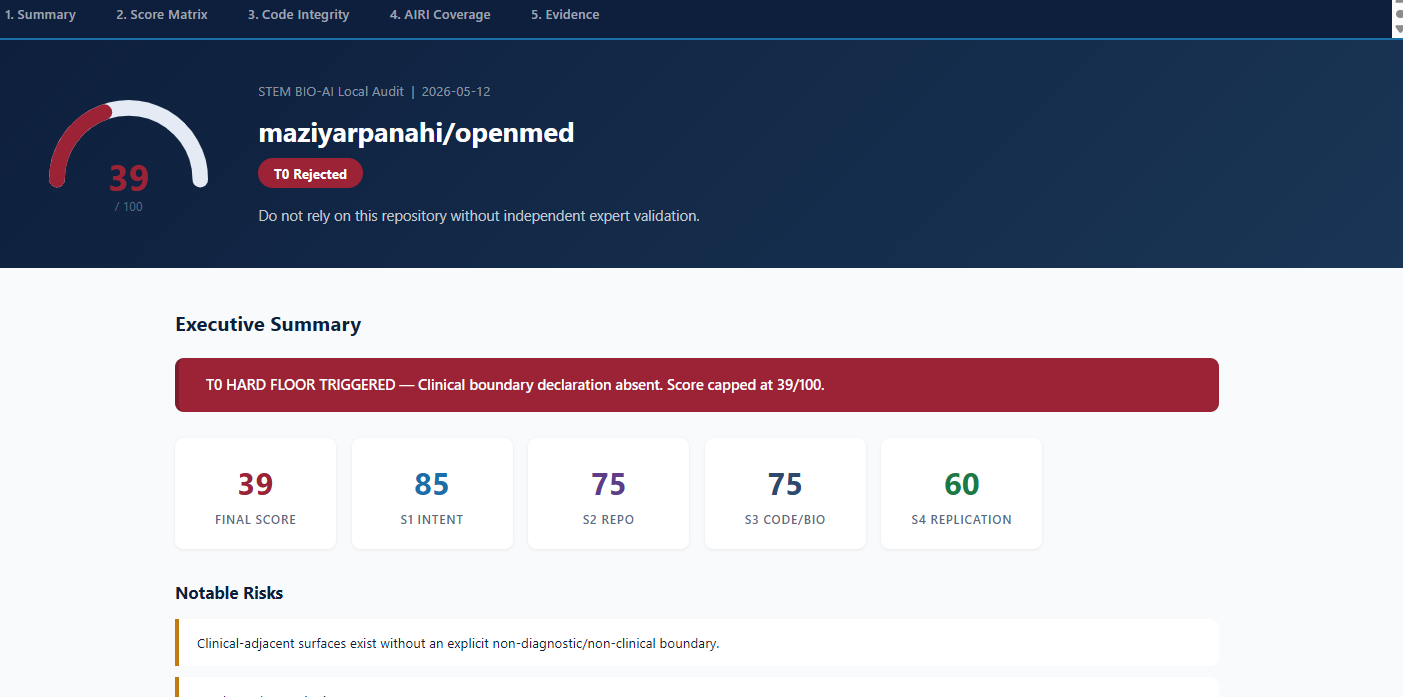
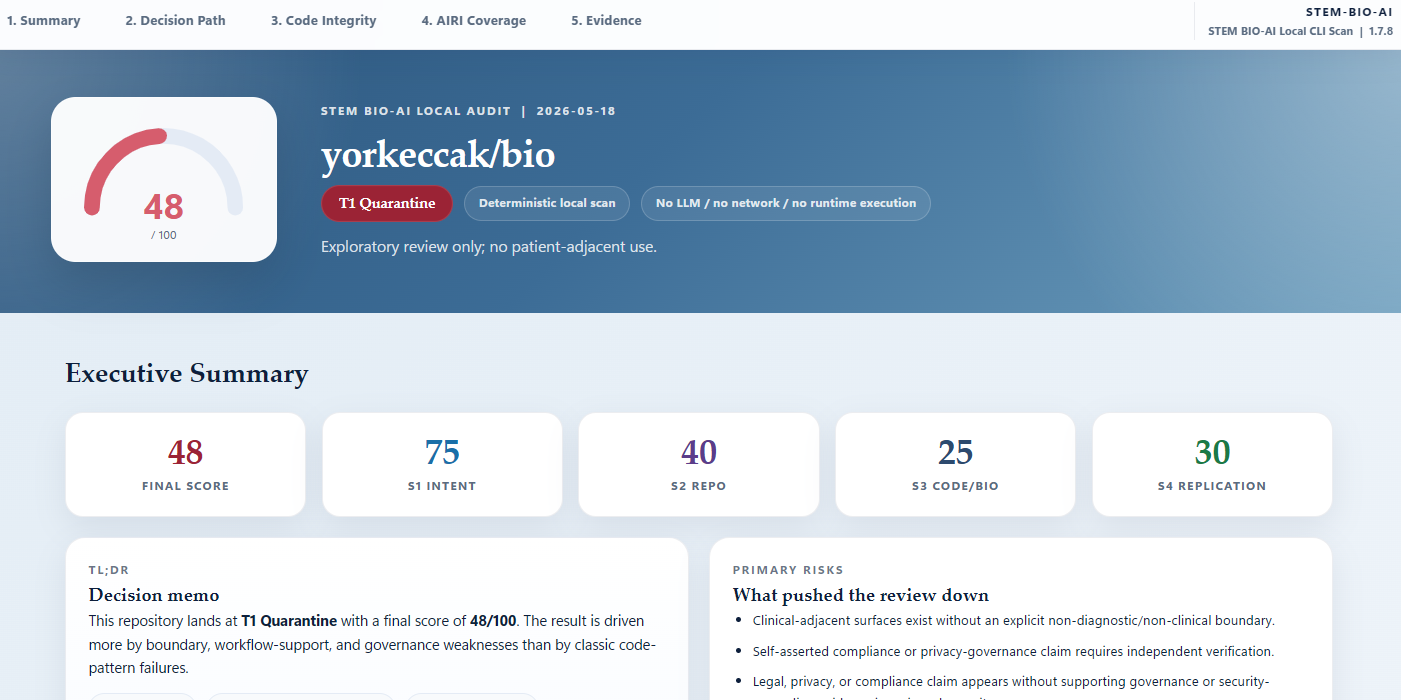
docs: refresh active html and report preview surfaces

diff --git a/docs/UI_HTML_REPORT.md b/docs/UI_HTML_REPORT.md
@@ -27,9 +27,9 @@ Example:
 | Section | ID | Content |
 |---------|-----|---------|
 | **Executive Summary** | `#s1` | Score gauge, 5-metric stat grid, notable risks, T0 alert banner |
-| **Score Matrix** | `#s2` | Stage bars (S1/S2R/S3/S4) with formula tooltip |
+| **Decision Path** | `#s2` | Stage bars (S1/S2R/S3/S4), score formula, and policy/configuration explainer |
 | **Code Integrity & Contract** | `#s3` | C1–C6 + CC1–CC3 expandable cards, with C4/C5/C6 split visible |
-| **AIRI Risk Coverage** | `#s4` | MIT AI Risk Repository donut + covered/gaps toggle table |
+| **AIRI Risk Coverage** | `#s4` | MIT AI Risk Repository donut + covered/gaps toggle table + domain filter cards |
 | **Evidence Detail** | `#s5` | Full evidence ledger with severity filter chips |
 
 Navigation between sections via a **sticky top navbar** with scroll-spy active state.
@@ -55,10 +55,11 @@ Each `C1–C6` / `CC1–CC3` card is clickable. Click expands the full evidence 
 ```
 
 ### AIRI 7-Domain Shortcut Cards (Section 4)
-Seven domain cards above the risk table, each with a numbered badge, domain name, and covered-risk count. Colors match the MIT AI Risk Navigator palette:
+The AIRI explorer starts with an `All Domains` card, followed by seven domain cards. Each card shows **covered / gaps** counts for that domain. Colors match the MIT AI Risk Navigator palette:
 
 | # | Domain | Badge color |
 |---|--------|------------|
+| All | All Domains | primary navy |
 | 1 | Discrimination & Toxicity | `#B5272A` crimson |
 | 2 | Privacy & Security | `#1E3A6E` deep navy |
 | 3 | Misinformation | `#C07020` amber |
@@ -67,10 +68,10 @@ Seven domain cards above the risk table, each with a numbered badge, domain name
 | 6 | Socioeconomic & Environmental | `#7A6520` olive |
 | 7 | AI System Safety, Failures & Limitations | `#1A5568` dark teal |
 
-Click a domain card → risk table filters to that domain only. Click the same card again → filter cleared. Domains with zero covered risks are dimmed (`opacity:0.3`, non-clickable). Domain filter composes with the Covered/Gaps toggle via `_applyAiriFilter()`.
+Click a domain card → risk table filters to that domain only and the `Covered (n)` / `Gaps (n)` toggle labels update to that domain's counts. Click `All Domains` → full table restored. Cards with `0/0` are dimmed but still document bundle coverage boundaries.
 
 ### AIRI Toggle (Section 4)
-Two-button toggle: `[Covered (n)]` / `[Gaps (n)]`. Composes with the domain filter — both conditions must be satisfied for a row to be visible.
+Two-button toggle: `[Covered (n)]` / `[Gaps (n)]`. Composes with the domain filter — both conditions must be satisfied for a row to be visible. The counts shown on the toggle buttons are dynamic and reflect the current domain selection.
 
 Covered AIRI rows surface bounded `why` reasoning derived from:
 
@@ -99,7 +100,7 @@ Every metric header carries a `?` icon with a `data-tooltip` attribute. CSS `::a
 
 ## Architecture
 
-The HTML renderer is split into three modules (each < 250 lines):
+The HTML renderer is split into three modules:
 
 | File | Role |
 |------|------|
@@ -107,13 +108,19 @@ The HTML renderer is split into three modules (each < 250 lines):
 | `stem_ai/render_html_styles.py` | `build_css(tc)` f-string (tier-color parameterized), `.domain-card/.domain-active` CSS, `JS` constant with `filterDomain()` + `_applyAiriFilter()` |
 | `stem_ai/render_html.py` | Five `_section*()` assemblers + domain-count computation + `render_html(result)` entry point |
 
-The matching one-page PDF surface now includes an additive `AIRI Coverage Summary` block so AIRI coverage, known gaps, and bounded `why:` explanations are not limited to HTML/Markdown only.
+The matching PDF surfaces now track the packet tiers:
+
+- `level 1` → `brief_1p.pdf` (legacy quick brief)
+- `level 2` → `detailed_5p.pdf` (standard review packet)
+- `level 3` → `detailed_7p.pdf` (full evidence packet)
+
+The 5-page and 7-page packets both include AIRI coverage and bounded `why:` explanations, while the 7-page packet adds the deeper closeout and metadata pages.
 
 ## Report Preview
 
 ![HTML Report Preview](assets/html_report_preview.png)
 
-*Screenshot: openmed scan, T1 tier (39/100), T0 hard floor triggered.*
+*Screenshot: current 1.7.8 HTML dashboard surface with the post-C4/C5/C6 integrity split and AIRI domain filtering.*
 
 ## Color Palette
 

diff --git a/docs/CLI_REFERENCE.md b/docs/CLI_REFERENCE.md
@@ -90,8 +90,7 @@ The shorthand remains:
 stem /path/to/repo
 ```
 
-Policy selection is mirror-only in 1.7.8: the chosen profile is surfaced in outputs and summaries, and derive/simulate preview lanes can compare postures, but authoritative score computation still follows the current deterministic runtime constants.
-Policy selection remains mirror-only in scans in 1.7.8. The new `policy derive` and `policy simulate` commands preview governed posture changes without turning those deltas into authoritative scan behavior.
+Policy selection remains mirror-only in scans in `1.7.8`: the chosen profile is surfaced in outputs and summaries, and `policy derive` / `policy simulate` preview governed posture changes without turning those deltas into authoritative scan behavior.
 
 Layer 2 AST contract detectors (`CC1` / `CC2` / `CC3`) run during normal scans
 and surface through: